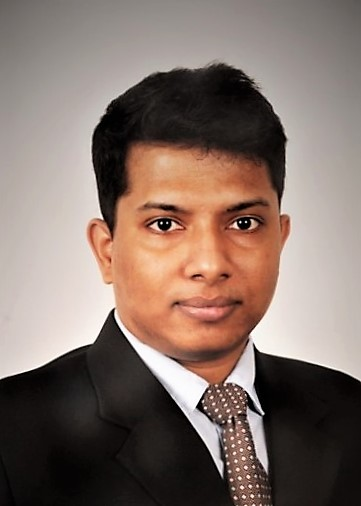
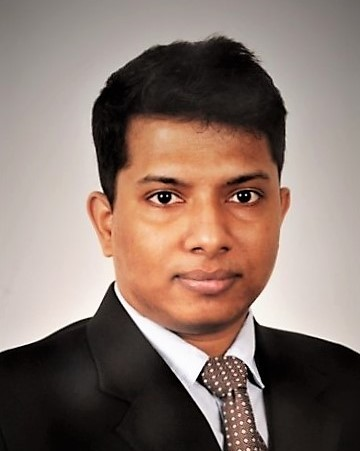
due to profile pic style.css updated a bit

Changed region(s): [[0.0, 0.0621, 1.0, 1.0], [0.3056, 0.8071, 0.3667, 0.8692], [0.2139, 0.8692, 0.2444, 0.9002]]

diff --git a/assets/styles/styles.css b/assets/styles/styles.css
@@ -336,8 +336,8 @@ h1, h2, h3, h4, h5, h6 {
 
 
 .profile-photo {
-	width: 200px;
-    height: 200px;
+	width: 250px;
+    height: 275px;
     margin: 0 auto;
     border-radius: 50%;
     background-size: cover;
